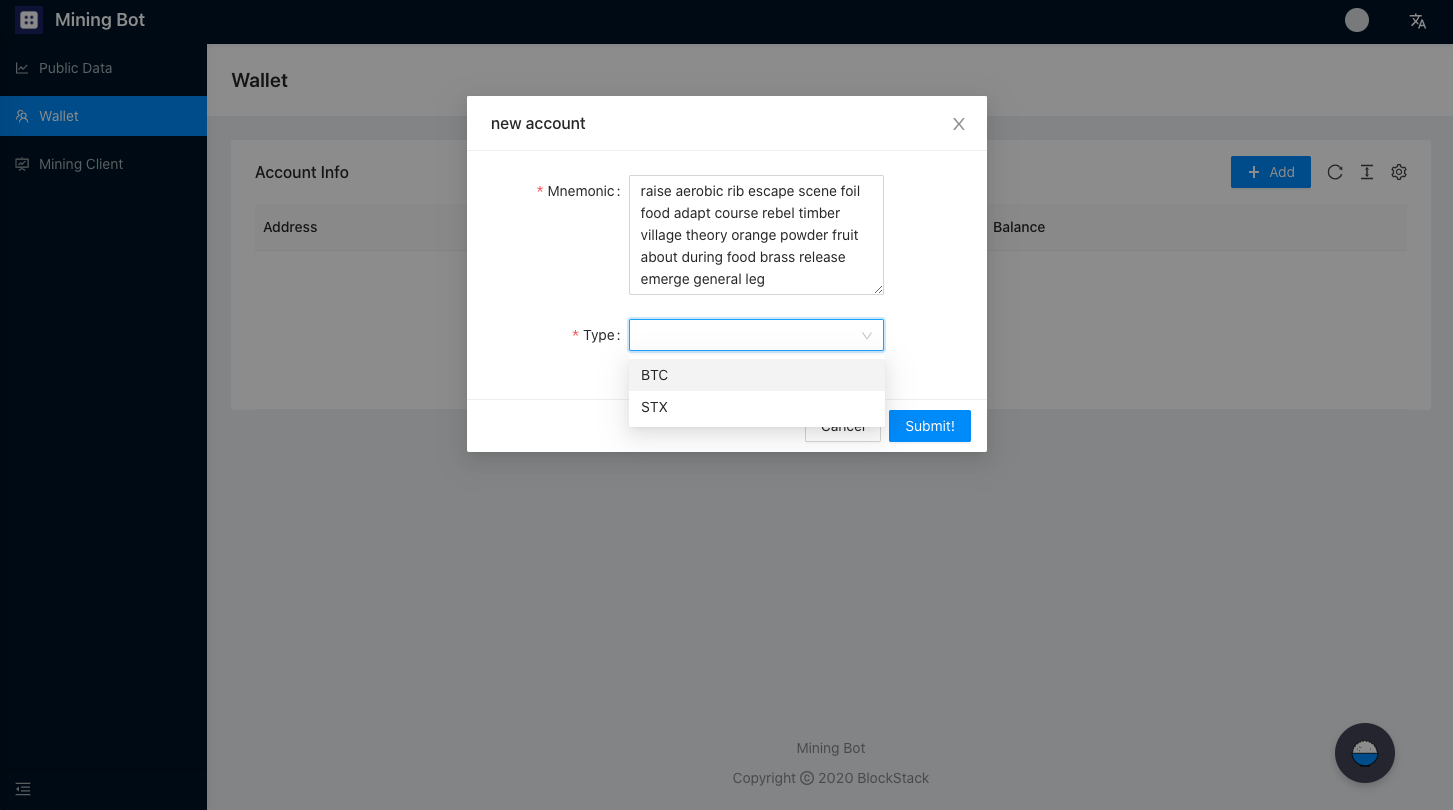
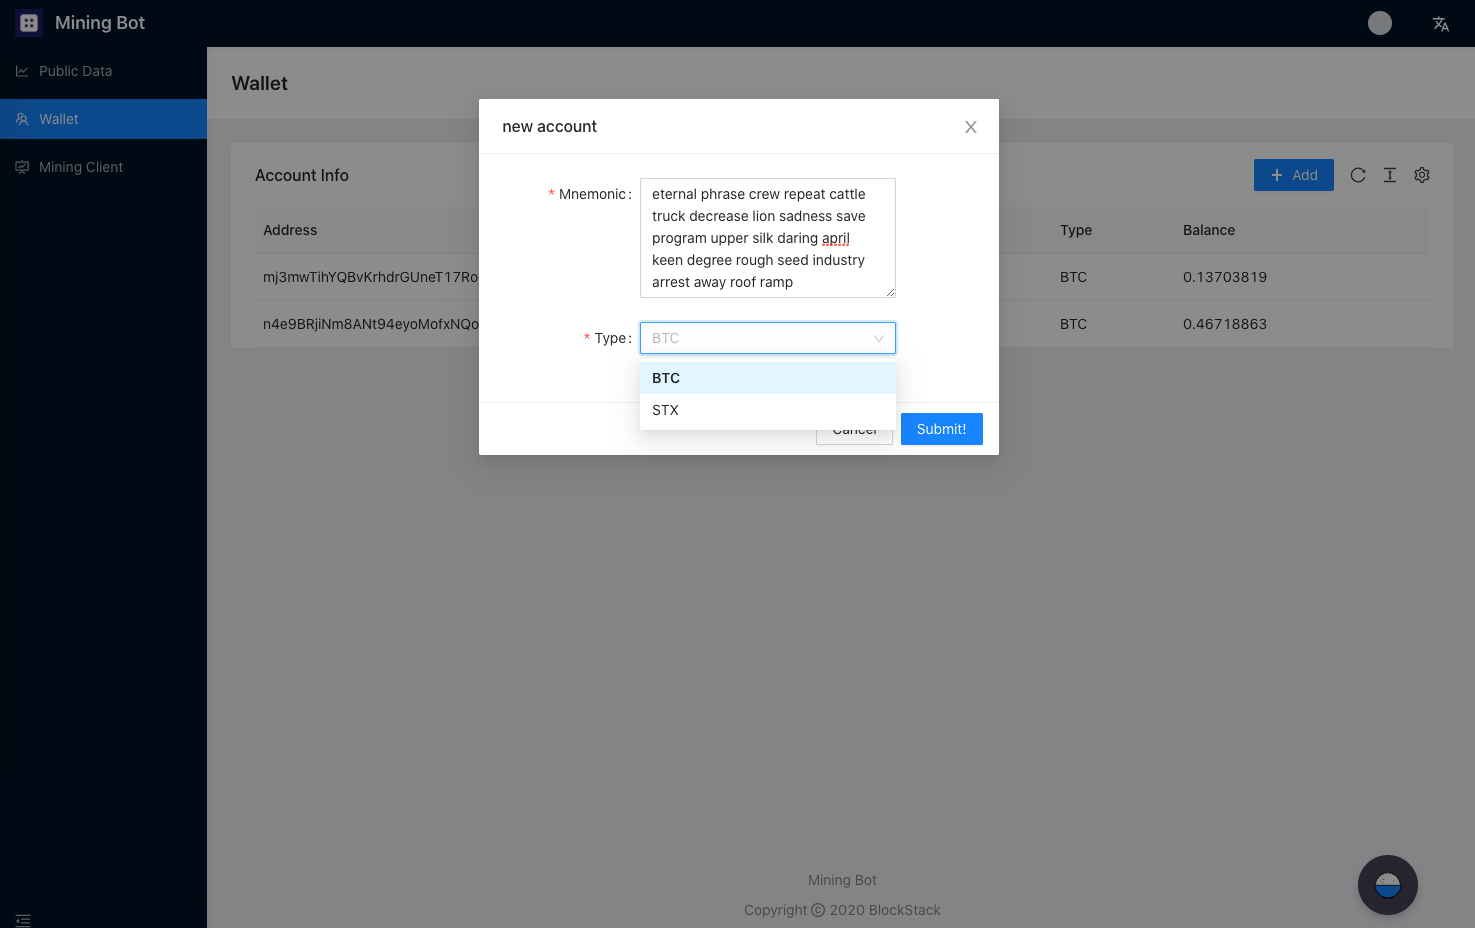
login page & publicdata page & wallet page

diff --git a/Mining-Bot-Alpha-Version/Use-Mining-Bot-For-Mining/挖矿机器人使用说明书.md b/Mining-Bot-Alpha-Version/Use-Mining-Bot-For-Mining/挖矿机器人使用说明书.md
@@ -5,20 +5,51 @@ sort: 2
 
 # 挖矿机器人使用说明书
 
-## 页面介绍
+本教程将会介绍如何使用挖矿机器人进行STX挖矿
+- [前序环境搭建教程](../Build-Before-Using/Mining-Bot-Alpha-Tutorial-EN.md)
 
+## 登陆页面介绍
+
+当你在浏览器中输入 http://localhost:8000/ 的时候，会看到如下界面：
+
+![](assets/CN/index/indexPage.png)
+
+当你第一次登陆的时候，会提示让您输入**锁定密码**，该密码主要用于**登陆认证**、**私钥加密保护**。当输入两次相同的密码后，就会进入挖矿机器人的主页面。进入主页面后可以通过下图中右上角的账户状态栏进行账户锁定。
+
+![](assets/CN/index/lockPage1.png)
+
+点击**锁定账户**后会跳转到如下界面，需要重新输入第一次设置的锁定密码进行账户解锁。
+
+![](assets/CN/index/lockPage2.png)
+
+:artificial_satellite:**【提醒】该密码无法被恢复**
+
+主页面由三个部分组成：**公开数据页面**、**钱包页面**、与**客户端页面**。接下来将逐个页面讲解如何通过挖矿机器人获取挖矿数据并参与挖矿。
 
 ## 公开数据页面
 
+如下图所示，公开数据页面旨在为挖矿机器人策略提供丰富的数据来源，公开数据页面如上图所示。现阶段包含如下信息：
+- 币价信息：STX、BTC交易对信息
+- Stacks链高度信息
+- Stacks链区块信息
+
+![](assets/CN/publicdata/opendataModule.png)
 
 
 ## 钱包页面
 
 ### 比特币与Stacks地址在线生成
 
+如果你有24助记词的BTC或STX地址，可以选择跳过本节。
+本小节参考[官方挖矿文档](https://docs.blockstack.org/mining)中对于生成在线地址的指令。
+
+运行如下指令：
+
 ``` 
 npx @stacks/cli make_keychain -t
 ```
+
+运行上述指令后会看到很多安装日志，在最后你可以看到一个JSON，类似于：
 
 ```
 {
@@ -31,5 +62,14 @@ npx @stacks/cli make_keychain -t
   }
 }
 ```
+:artificial_satellite:**【提醒】上述信息请务必保存，为比特币、Stacks私钥等核心信息**
+
+
+### 比特币与Stacks地址导入
+
+![](assets/CN/wallet/walletModule.png)
+点击钱包账户页面中的**添加账户**一栏，会弹出导入地址的对话框，将24个助记词按照拷贝粘贴至对话框中（助记词之间用空格隔开），并选择相应类型，便可完成地址导入。
+
+![](assets/CN/wallet/inputSeed.png)
 
 ## 客户端页面

diff --git a/Mining-Bot-Alpha-Version/Build-Before-Using/挖矿机器人Alpha版本运行前环境搭建教程.md b/Mining-Bot-Alpha-Version/Build-Before-Using/挖矿机器人Alpha版本运行前环境搭建教程.md
@@ -328,5 +328,6 @@ Starting the development server...
 :artificial_satellite:**【提醒】如果你使用的系统是Windows并且使用了[Windows WSL](https://docs.microsoft.com/en-us/windows/wsl/install-win10)，你需要使用输出中提示的Network地址来打开网站，比如下方的http://172.30.240.213:8000**
 
 ![wsl](assets/wsl_mining_ip.png)
+ 
 
 恭喜你！你已经完成了Mining-Bot的启动，接下来可以开启你的挖矿之旅了。

diff --git a/Mining-Bot-Alpha-Version/Use-Mining-Bot-For-Mining/README.md b/Mining-Bot-Alpha-Version/Use-Mining-Bot-For-Mining/README.md
@@ -1,7 +1,5 @@
 # User's Guide of Mining-Bot
 
-source: `{{ page.path }}`
-
-English Version : [Link](./User's-Guide-of-Mining-Bot.md)
-中文版本 : [链接](./挖矿机器人使用说明书.md)
+- English Version : [Link](./User's-Guide-of-Mining-Bot.md)
+- 中文版本 : [链接](./挖矿机器人使用说明书.md)
 

diff --git a/Mining-Bot-Alpha-Version/Build-Before-Using/README.md b/Mining-Bot-Alpha-Version/Build-Before-Using/README.md
@@ -1,6 +1,5 @@
 # Build Before Using
 
-`{{page.path}}`
 
 - English Version : [Link](./Mining-Bot-Alpha-Tutorial-EN.md)
 - 中文版本 : [链接](./挖矿机器人Alpha版本运行前环境搭建教程.md)
